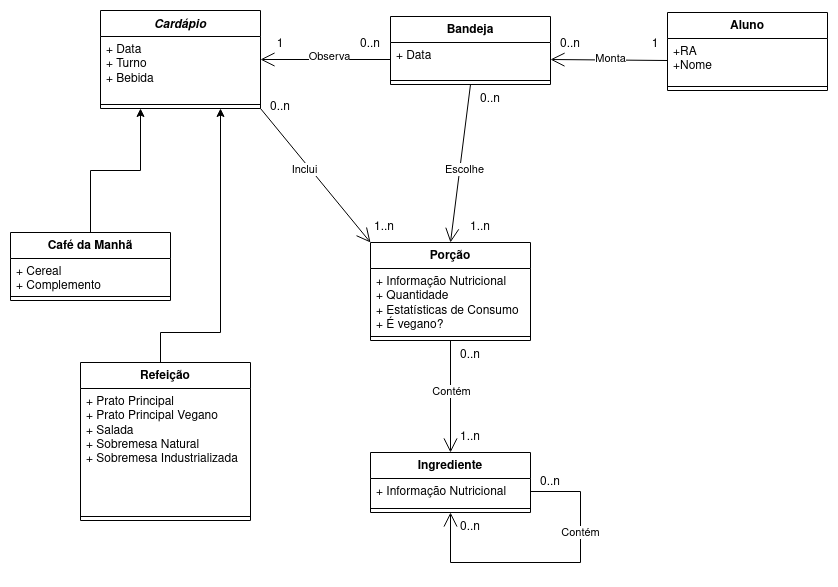
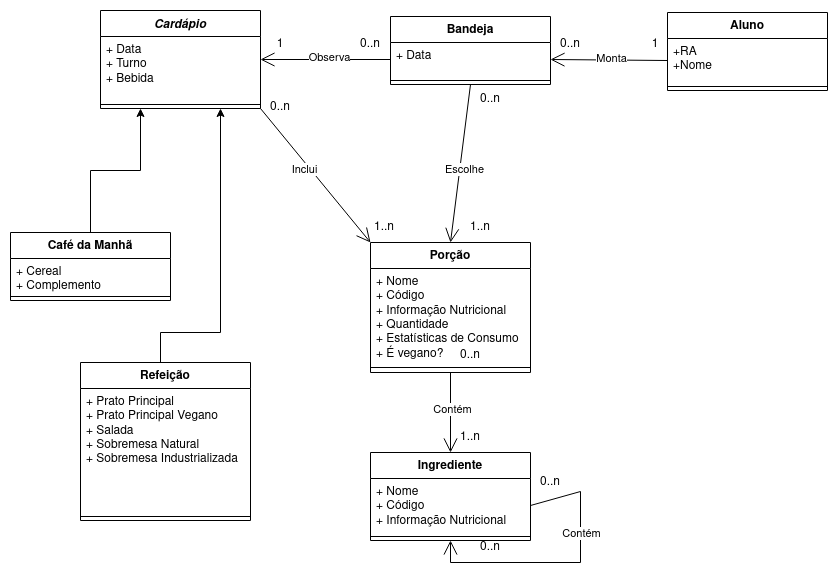
Lab3 pronto para revisão

diff --git a/lab03/README.md b/lab03/README.md
@@ -14,10 +14,30 @@ Diagrama ER Revisado
 # Mapeamento para o Modelo Relacional
 ~~~
 ALUNO(_RA_, Nome)
-BANDEJA(_RA_, _Data_, _Turno_, Porções)
-  Dono chave estrangeira -> ALUNO(RA)
+
+BANDEJA(_Aluno_, _Data_, _Turno_, Porções)
+  Aluno chave estrangeira -> ALUNO(RA)
+  Data chave estrangeira -> CARDÁPIO(Data)
+  Turno chave estrangeira -> CARDÁPIO(Turno)
+
+CARDÁPIO(_Data_, _Turno_)
+
 CAFÉ_DA MANHA(_Data_, _Turno_, Bebida, Cereal, Complemento)
+  Bebida chave estrangeira -> PORÇÃO(Nome)
+  Cereal chave estrangeira -> PORÇÃO(Nome)
+  COmplemento chave estrangeira -> PORÇÃO(Nome)
+
 REFEIÇÃO(_Data_, _Turno_, Bebida, Salada, Prato Principal Vegano, Prato Principal, Sobremesa Natural, Sobremesa Industrializada)
-PORÇÃO(_Código_, Informação Nutricional, É Vegano, Quantidade, Estatísticas de Consumo)
-INGREDIENTE(_Código_, Informação Nutricional, Ingredientes)
+  Bebida chave estrangeira -> PORÇÃO(Nome)
+  Salada chave estrangeira -> PORÇÃO(Nome)
+  Prato Principal Vegano chave estrangeira -> PORÇÃO(Nome)
+  Prato Principal chave estrangeira -> PORÇÃO(Nome)
+  Sobremesa industrializada chave estrangeira -> PORÇÃO(Nome)
+  Sobremesa natural chave estrangeira -> PORÇÃO(Nome)
+
+INGREDIENTE(_Código_, Nome, Informação Nutricional, Ingredientes)
+  Ingredientes chave estrangeira -> INGREDIENTE(Código)
+
+PORÇÃO(_Código_, Nome, Informação Nutricional, É Vegano, Quantidade, Estatísticas de Consumo, Ingredientes)
+  Ingredientes chave estrangeira -> INGREDIENTE(Código)
 ~~~
